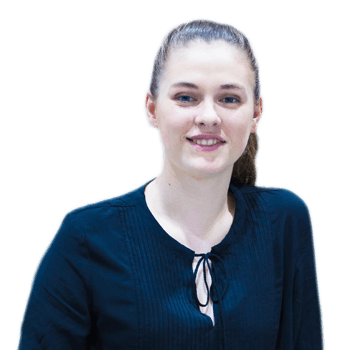
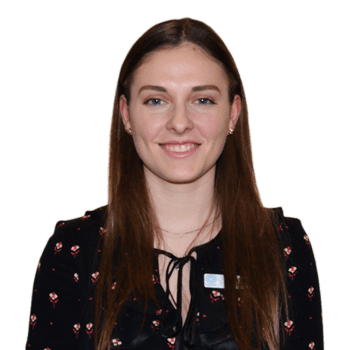
content/author (added mark)

diff --git a/content/author/mark-turci.md b/content/author/mark-turci.md
@@ -1,0 +1,10 @@
+---
+title: Mark Turci
+jobtitle: Practice Manager
+photo: /uploads/staff-mark.png
+order: 16
+---
+
+Mark is our Practice Manager at Woodville. He has been in the optical industry since 2005, is a qualified Optical Dispenser and comes with a wealth of optical knowledge and style. He is a caring and friendly face who will be very happy to assist you with your eye care needs, whether it be a new pair of optical frames or some new sunglasses to help keep out the Australian sun.
+
+When not at work, Mark can be found tending to his garden or taking his pride and joy for a spin on the weekend.
